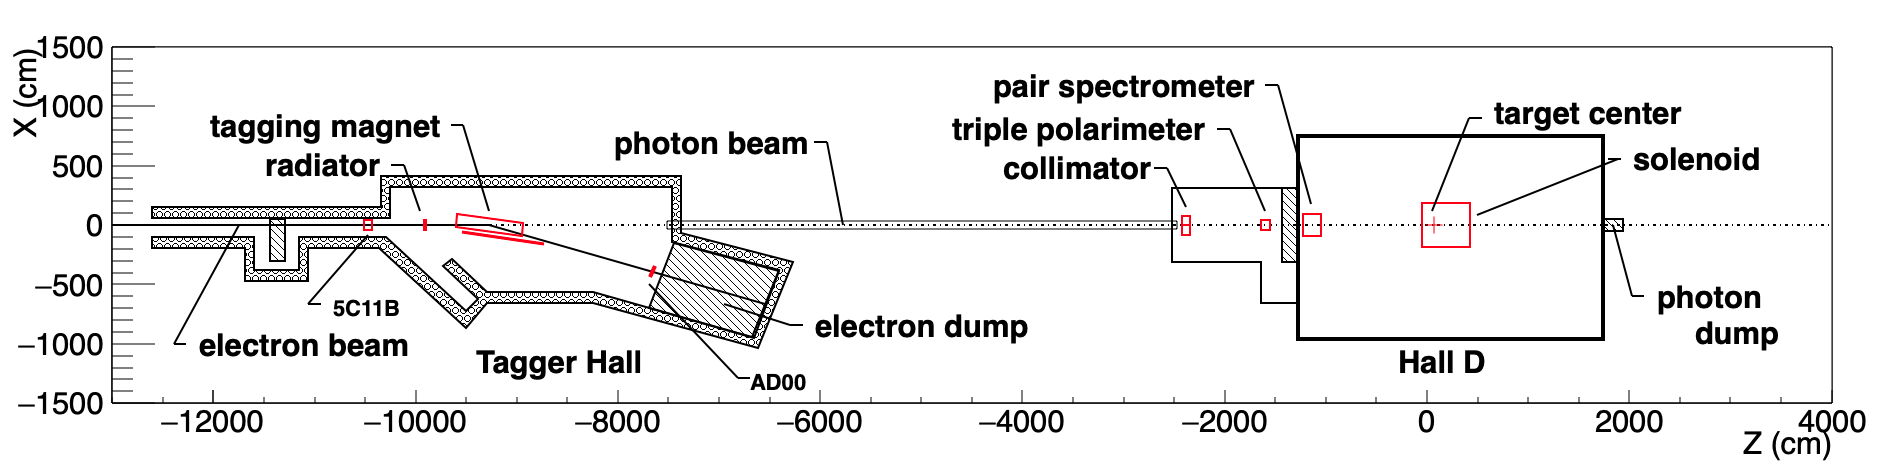
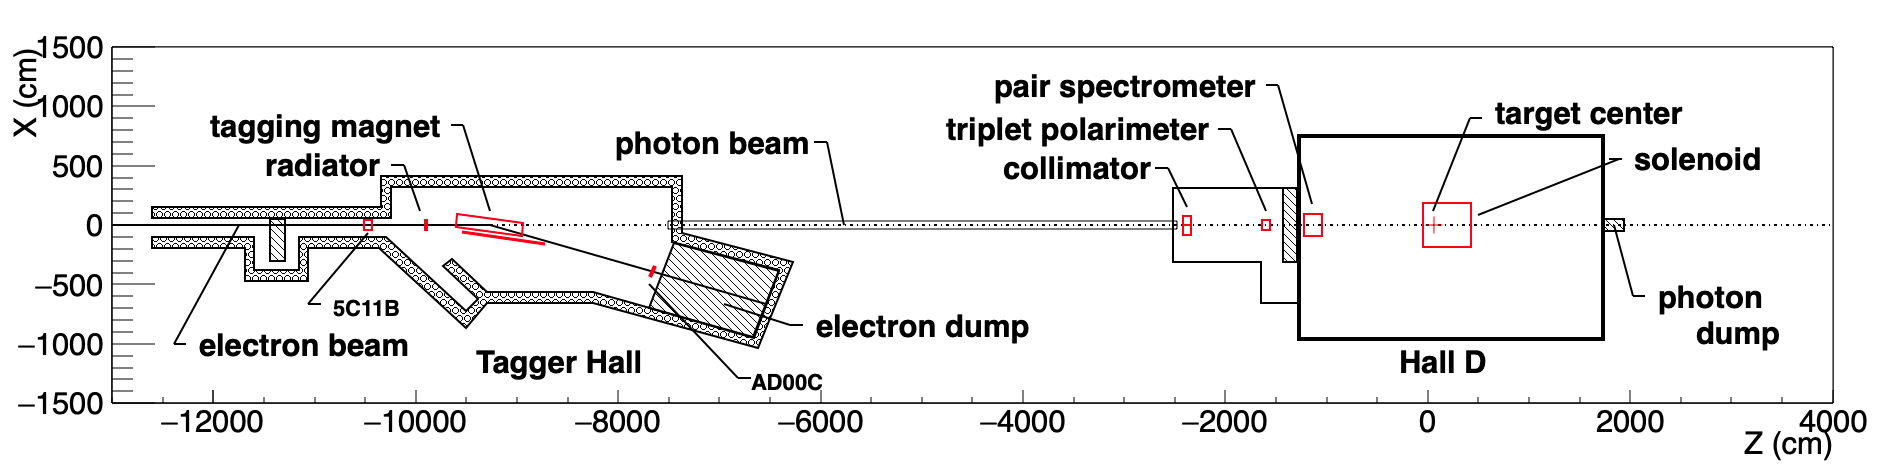
fix typos on figure

diff --git a/figures/Draw_beamline.C b/figures/Draw_beamline.C
@@ -436,8 +436,8 @@ void Draw_beamline()
     Dxdash = 100;
     arrow->DrawLine(7955-zorigin,813,8306-zorigin,115);
     dash->DrawLine(7955-zorigin,813,7955-zorigin-Dzdash,813);
-    string.Form("triple polarimeter");
-    t3->DrawLatex(7955-zorigin-22*Dzdash,813-Dxdash,string);
+    string.Form("triplet polarimeter");
+    t3->DrawLatex(7955-zorigin-22.5*Dzdash,813-Dxdash,string);
     
     Dzdash = 125;
     Dxdash = 100;
@@ -493,7 +493,7 @@ void Draw_beamline()
     
     Dzdash = 125;
     Dxdash = 100;
-    arrow->DrawLine(-1160-zorigin,-668,-570-zorigin,-79);
+    arrow->DrawLine(-1160-zorigin,-668,-570-zorigin,-69);
     dash->DrawLine(-1160-zorigin,-668,-1160-zorigin+Dzdash,-668);
     string.Form("5C11B");
     TLatex *t4 = new TLatex(-1160-zorigin+2*Dzdash,-668-Dxdash,string);
@@ -509,7 +509,7 @@ void Draw_beamline()
     Dxdash = 100;
     arrow->DrawLine(-6817,-1291,-7697,-492);
     dash->DrawLine(-6817,-1291,-6817+Dzdash,-1291);
-    string.Form("AD00");
+    string.Form("AD00C");
     t4->DrawLatex(-6817+1*Dzdash,-1291-Dxdash,string);
     
     
